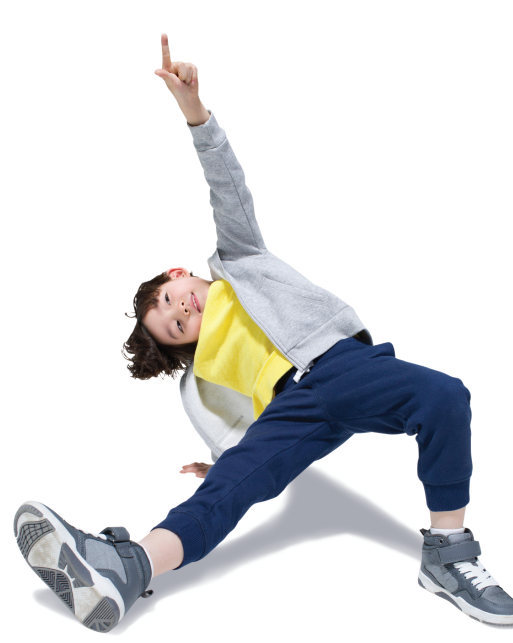
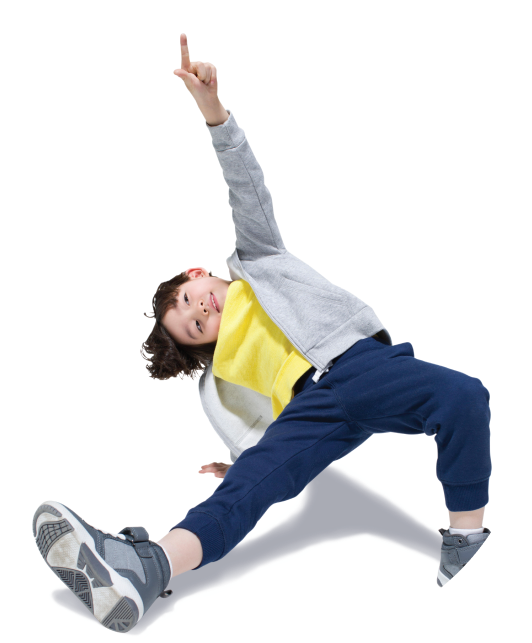
image vision

diff --git a/css/style.css b/css/style.css
@@ -602,10 +602,10 @@ h6 {
 }
 
 .vision__main--right--box:nth-child(2) .i2 {
-  top: 9%;
+  top: 3%;
   right: 78%;
-  -webkit-transform: rotate(-6.41deg);
-          transform: rotate(-6.41deg);
+  -webkit-transform: rotate(-20.41deg);
+          transform: rotate(-20.41deg);
 }
 
 .vision__main--right--box:nth-child(2) .i3 {
@@ -637,10 +637,10 @@ h6 {
 }
 
 .vision__main--right--box:nth-child(3) .i2 {
-  top: -7%;
+  top: -12%;
   right: 27%;
-  -webkit-transform: rotate(22.55deg);
-          transform: rotate(22.55deg);
+  -webkit-transform: rotate(2.25deg);
+          transform: rotate(2.25deg);
 }
 
 .vision__main--right--box:nth-child(3) .i3 {
@@ -665,7 +665,7 @@ h6 {
 }
 
 .vision__main--right--box:nth-child(4) .i1 {
-  top: 10%;
+  top: 5%;
   left: -10px;
   right: inherit;
   -webkit-transform: matrix(0.54, -0.84, 0.84, 0.54, 0, 0);
@@ -673,10 +673,10 @@ h6 {
 }
 
 .vision__main--right--box:nth-child(4) .i2 {
-  top: 10%;
+  top: 3%;
   right: 4%;
-  -webkit-transform: matrix(0.56, 0.83, -0.83, 0.56, 0, 0);
-          transform: matrix(0.56, 0.83, -0.83, 0.56, 0, 0);
+  -webkit-transform: rotate(35deg);
+          transform: rotate(35deg);
 }
 
 .vision__main--right--box:nth-child(4) .i3 {
@@ -687,8 +687,8 @@ h6 {
 }
 
 .vision__main--right--box:nth-child(4) .i4 {
-  bottom: -8%;
-  left: 1%;
+  bottom: -5%;
+  left: 3%;
 }
 
 .vision__main--right--box:nth-child(4) .i5 {
@@ -768,5 +768,21 @@ h6 {
   left: -13%;
   width: 16%;
   z-index: 2;
+}
+
+.journey {
+  padding-top: 150px;
+}
+
+.journey__title {
+  padding-top: 48px;
+  position: relative;
+}
+
+.journey__title .icon-global {
+  position: absolute;
+  top: 0;
+  right: 0;
+  z-index: 3;
 }
 /*# sourceMappingURL=style.css.map */

diff --git a/css/layout/_vision.scss b/css/layout/_vision.scss
@@ -175,9 +175,9 @@
             transform: rotate(-32.63deg);
           }
           .i2 {
-            top: 9%;
+            top: 3%;
             right: 78%;
-            transform: rotate(-6.41deg);
+            transform: rotate(-20.41deg);
           }
           .i3 {
             top: 3%;
@@ -203,9 +203,9 @@
             left: initial;
           }
           .i2 {
-            top: -7%;
+            top: -12%;
             right: 27%;
-            transform: rotate(22.55deg);
+            transform: rotate(2.25deg);
           }
           .i3 {
             bottom: 14%;
@@ -225,15 +225,15 @@
         }
         &:nth-child(4) {
           .i1 {
-            top: 10%;
+            top: 5%;
             left: -10px;
             right: inherit;
             transform: matrix(0.54, -0.84, 0.84, 0.54, 0, 0);
           }
           .i2 {
-            top: 10%;
+            top: 3%;
             right: 4%;
-            transform: matrix(0.56, 0.83, -0.83, 0.56, 0, 0);
+            transform: rotate(35deg);
           }
           .i3 {
             bottom: -6%;
@@ -241,8 +241,8 @@
             transform: matrix(0.7, -0.71, 0.71, 0.7, 0, 0);
           }
           .i4 {
-            bottom: -8%;
-            left: 1%;
+            bottom: -5%;
+            left: 3%;
           }
           .i5 {
             bottom: 25%;

diff --git a/index.html b/index.html
@@ -273,6 +273,24 @@
       </div>
     </section>
     <!-- End Feedback  -->
+    <!-- Journey -->
+    <section class="journey">
+      <div class="journey__title animatedParent">
+        <div class="animated fadeIn">
+          <h2 class="title">
+            HÀNH TRÌNH HƠN 25 NĂM NUÔI DƯỠNG SỰ TỰ TIN<br />CỦA HÀNG TRIỆU TRẺ
+            EM VIỆT!
+          </h2>
+        </div>
+        <div class="icon-global">
+          <img src="./images/global.svg" alt="" />
+        </div>
+        <div class="icon-star-2">
+          <img src="./images/star-2.svg" alt="" />
+        </div>
+      </div>
+    </section>
+    <!-- End Journey -->
     <!-- Vision -->
     <section class="vision">
       <div class="vision__line animatedParent">

diff --git a/css/layout/_journey.scss b/css/layout/_journey.scss
@@ -1,0 +1,13 @@
+.journey {
+  padding-top: 150px;
+  &__title {
+    padding-top: 48px;
+    position: relative;
+    .icon-global {
+      position: absolute;
+      top: 0;
+      right: 0;
+      z-index: 3;
+    }
+  }
+}

diff --git a/css/style.scss b/css/style.scss
@@ -40,3 +40,4 @@ h6 {
 @import "./layout/header";
 @import "./layout/feedback";
 @import "./layout/vision";
+@import "./layout/journey";
